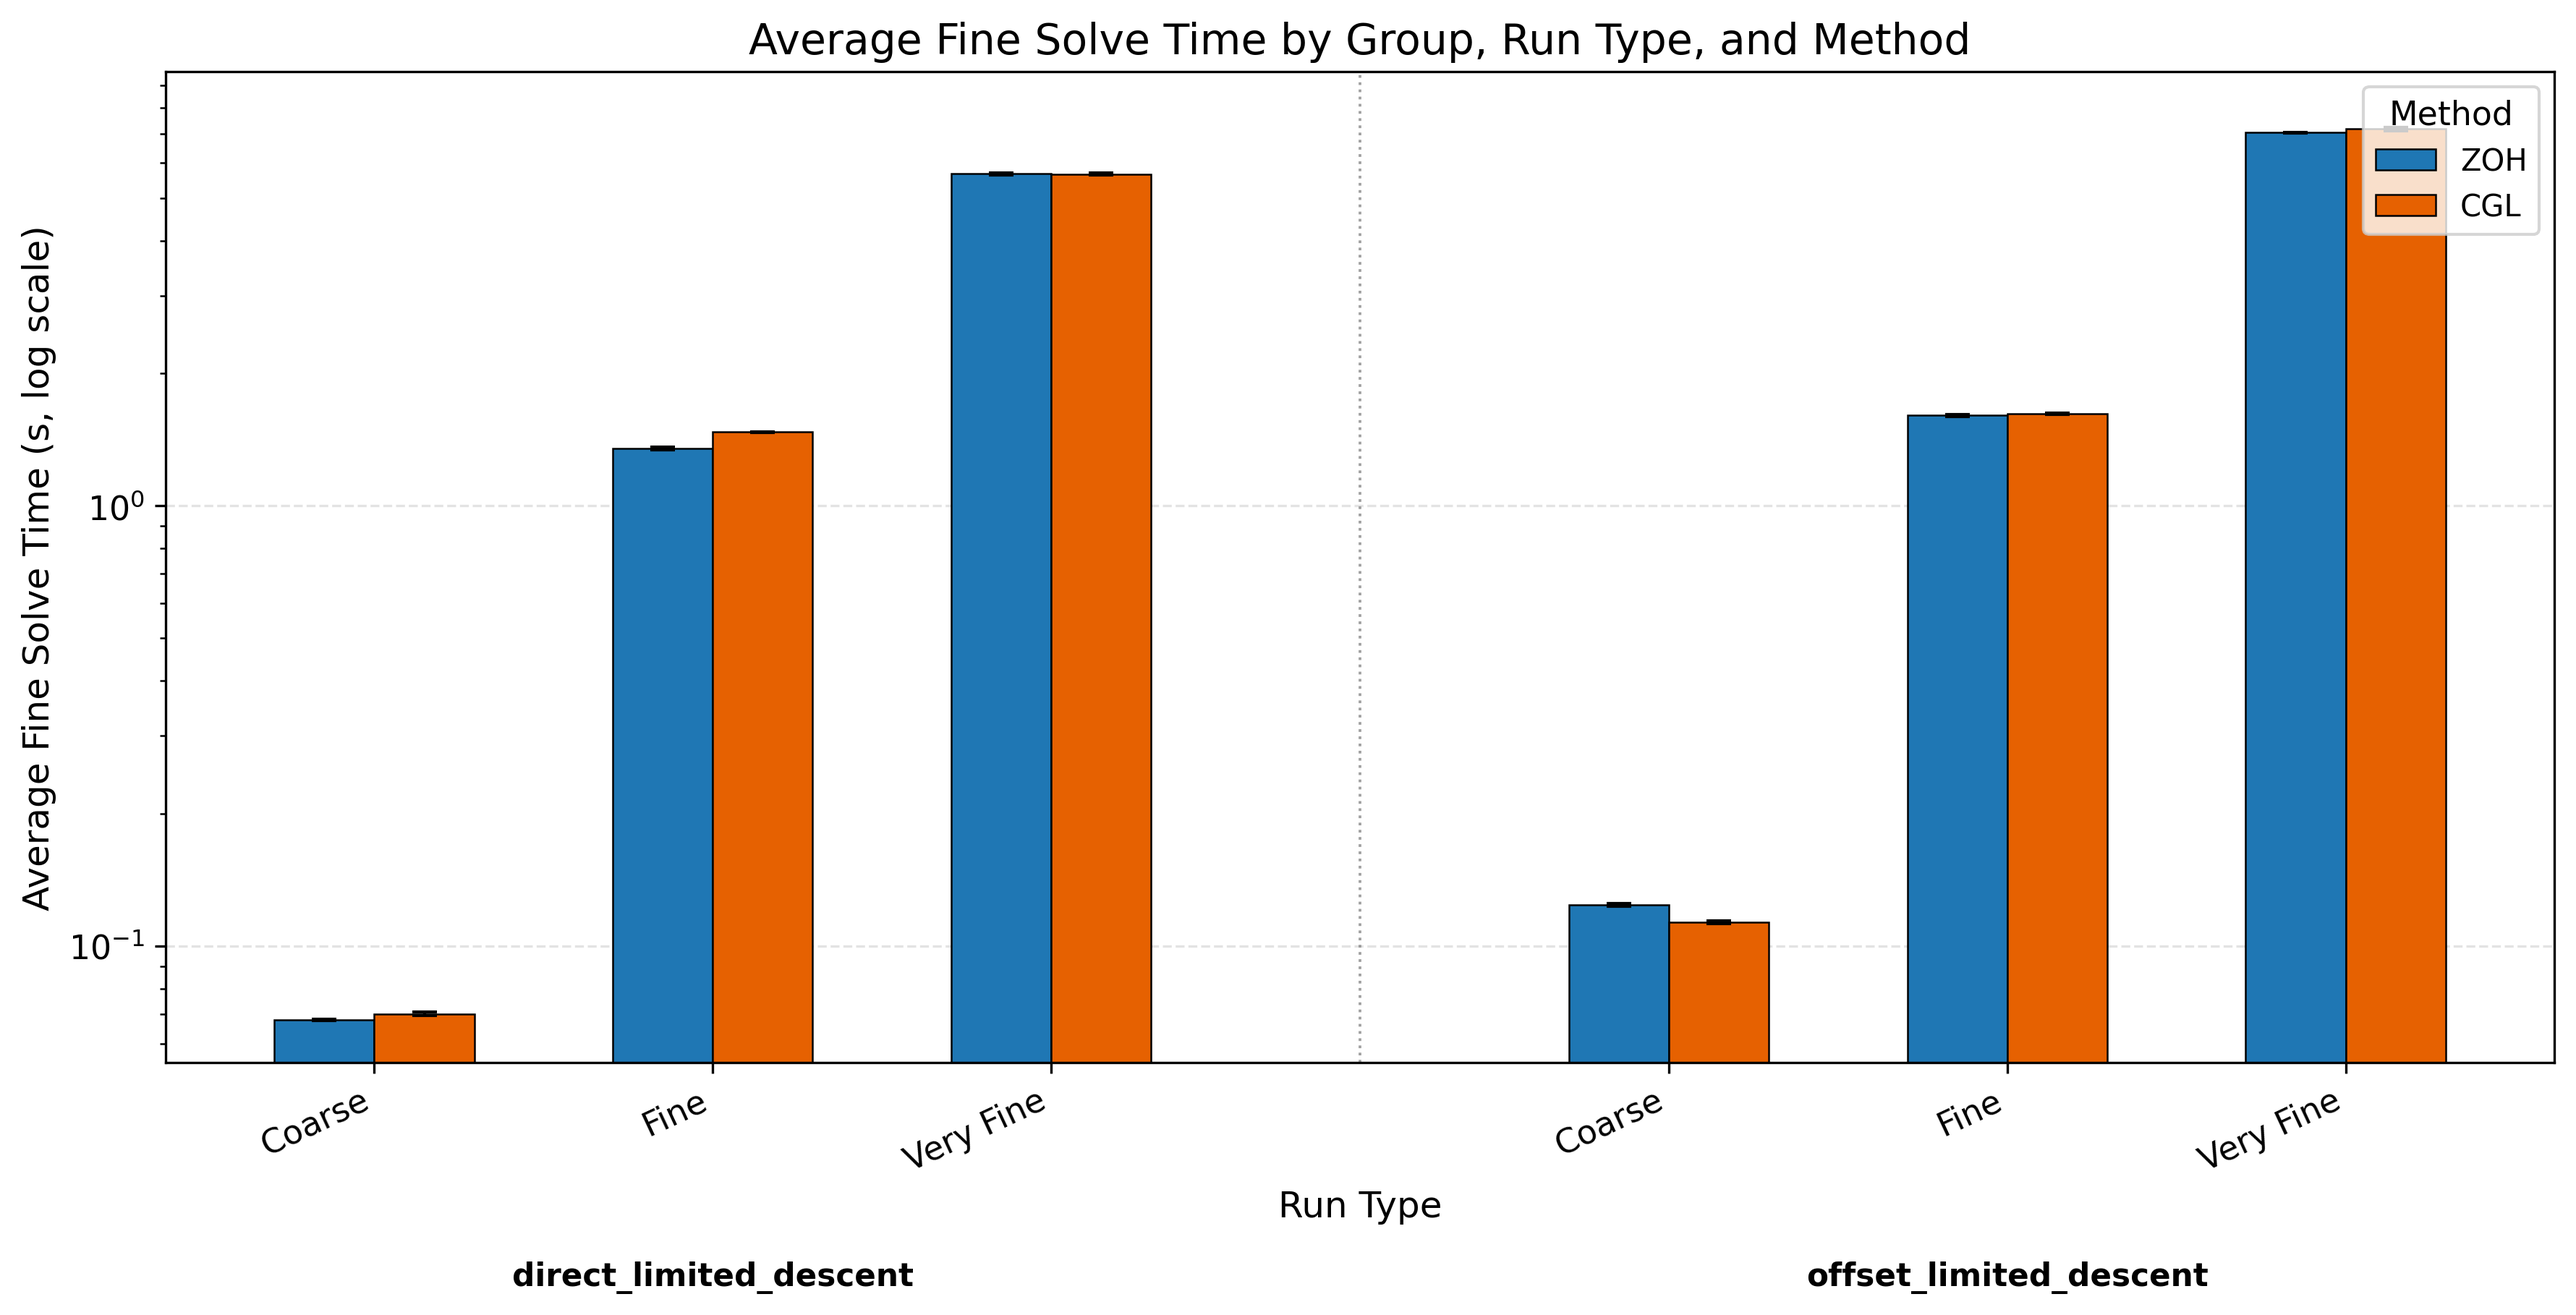
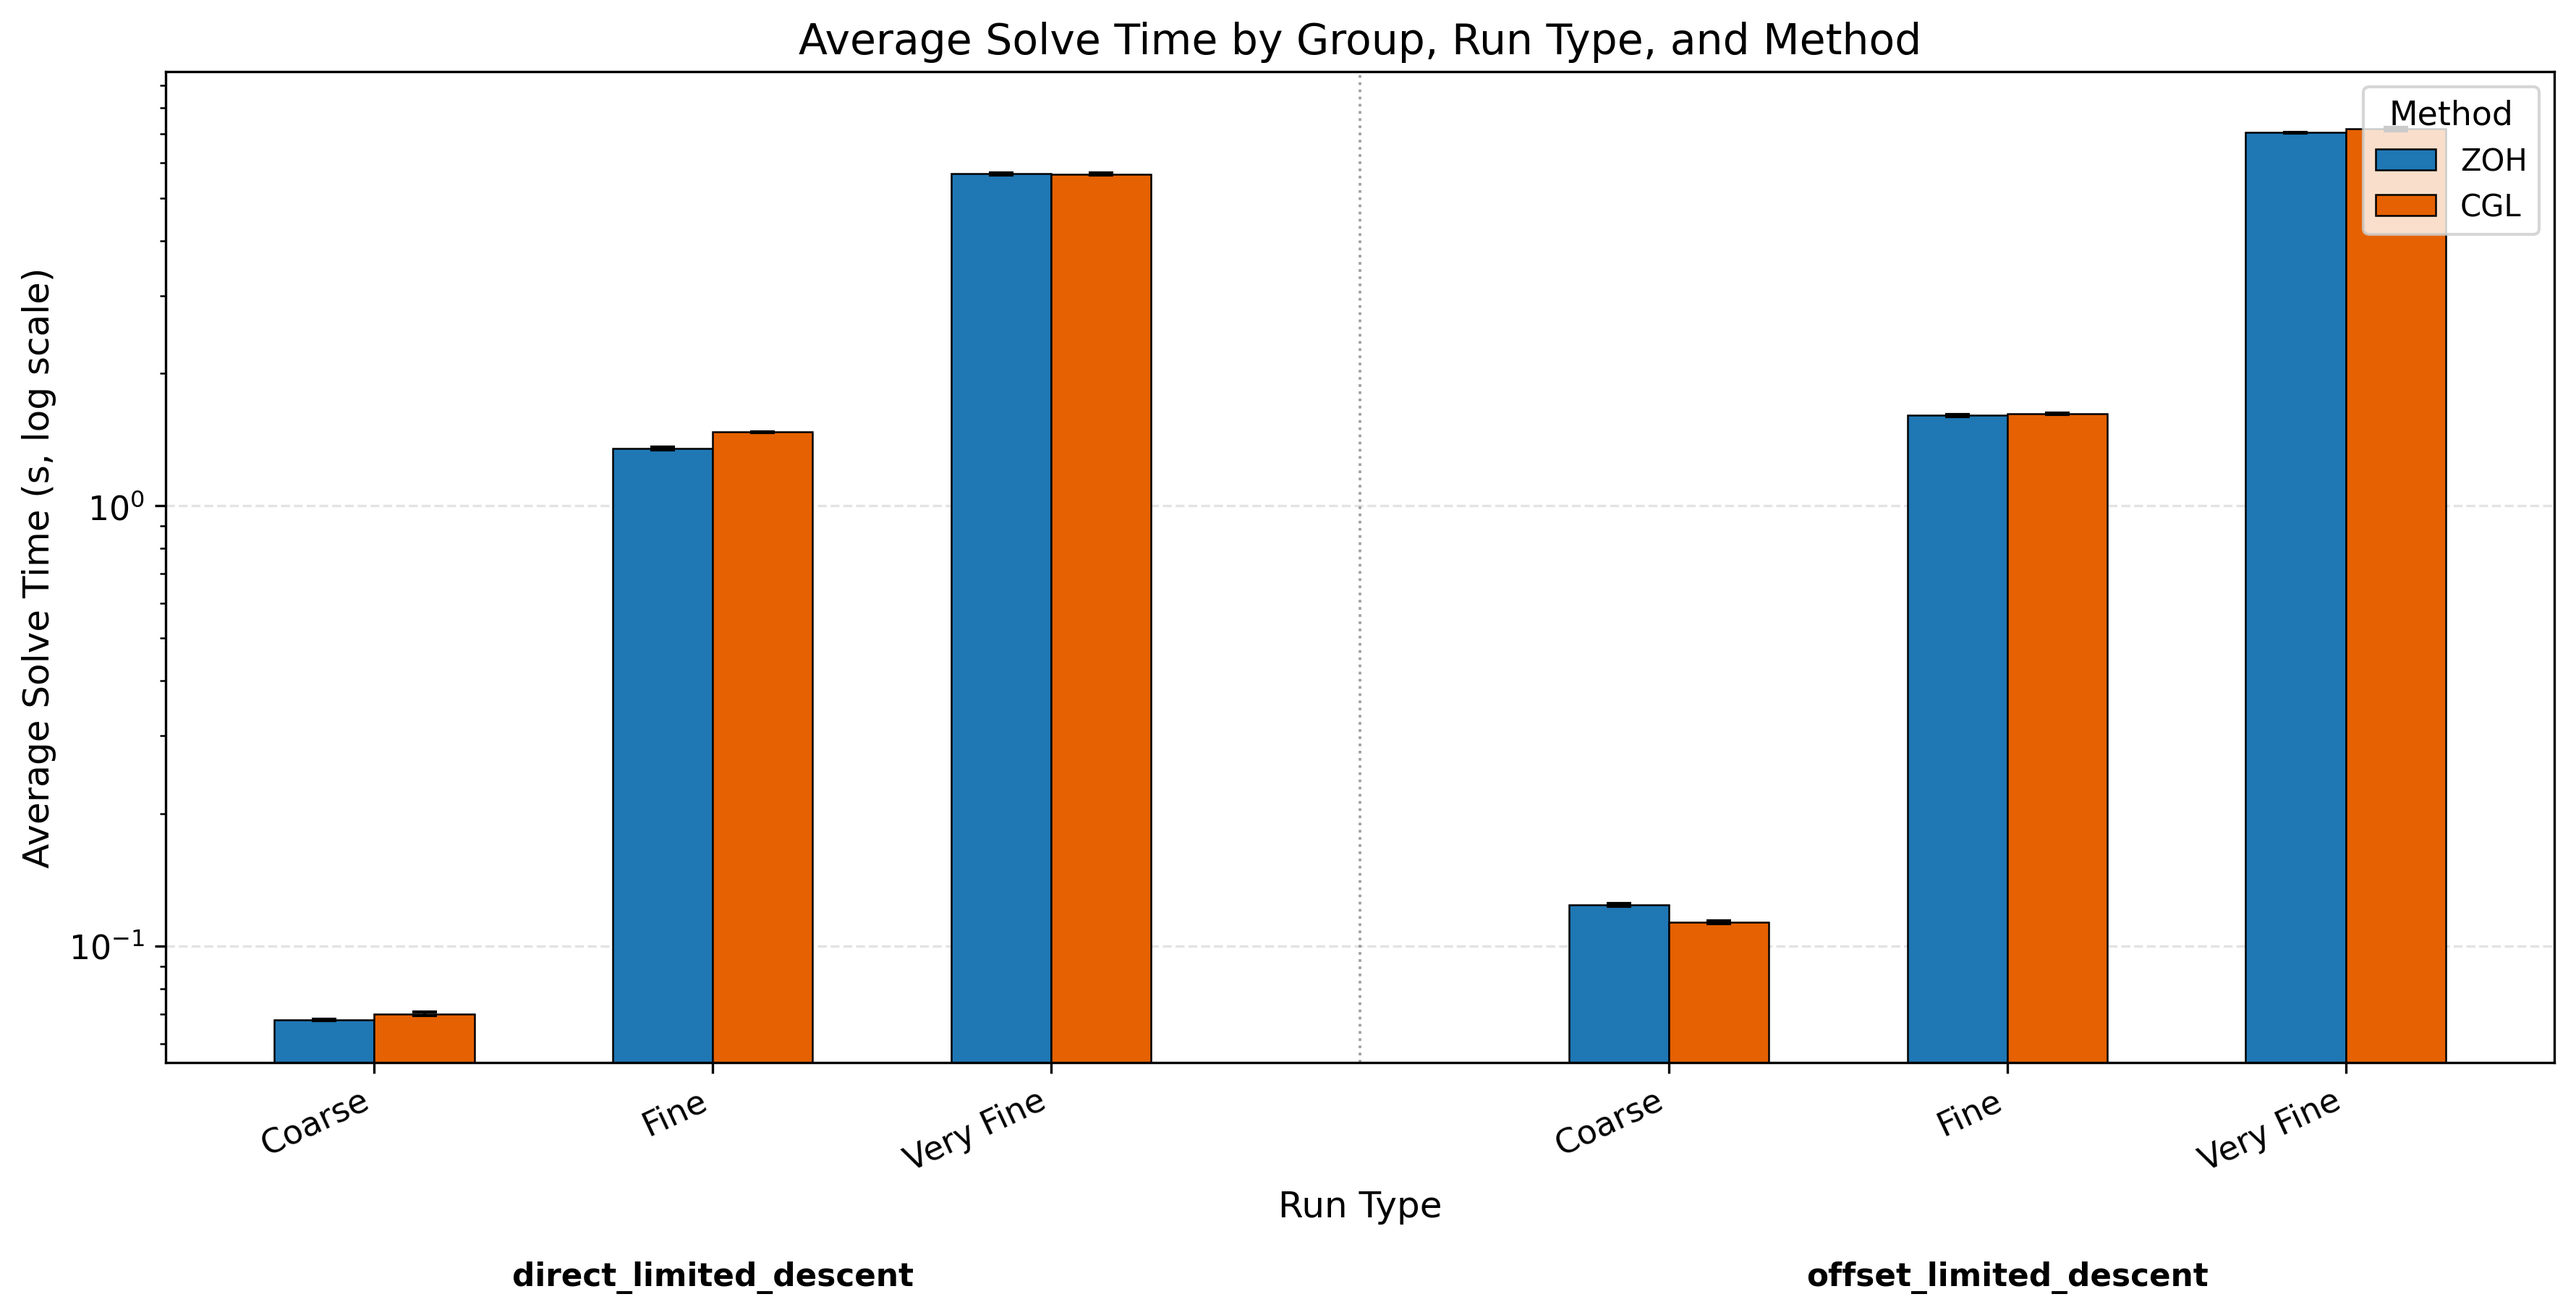
ultra_short direct_descent

Changed region(s): [[0.3117, 0.0, 0.7481, 0.0616], [0.0, 0.1848, 0.0312, 0.6777]]

diff --git a/Algorithms/LosslessConvexification/rust_lossless/src/main.rs b/Algorithms/LosslessConvexification/rust_lossless/src/main.rs
@@ -27,13 +27,13 @@ struct SimpleMetricsContext {
 }
 
 fn main() {
-    //  let initial_position = [0.0, 0.0, 50.0];
-    let initial_position = [10.0, 20.0, 50.0];
+     let initial_position = [0.0, 0.0, 50.0];
+    // let initial_position = [10.0, 20.0, 50.0];
 
-    // let max_velocity = 500.0;
-    let max_velocity = 5.0;
+    let max_velocity = 500.0;
+    // let max_velocity = 5.0;
 
-    let min_time_s: f64 = 11.95;
+    let min_time_s: f64 = 7.00;
 
     let mut zoh_solver = LosslessSolver {
         landing_point: [0.0, 0.0, 0.0],
@@ -50,7 +50,7 @@ fn main() {
         coarse_line_search_delta_t: 0.1,
         fine_line_search_delta_t: 0.01,
         coarse_delta_t: 0.05,
-        fine_delta_t: 0.4,
+        fine_delta_t: 0.2,
         use_glide_slope: true,
         glide_slope: 5_f64.to_radians(),
         N: 20,
@@ -72,14 +72,14 @@ fn main() {
         coarse_line_search_delta_t: 0.1,
         fine_line_search_delta_t: 0.01,
         coarse_nodes: 15,
-        fine_nodes: 63,
+        fine_nodes: 10,
         use_glide_slope: true,
         glide_slope: 5_f64.to_radians(),
         ..Default::default()
     };
 
-    let group_name = "offset_limited_descent";
-    let truth_name = "trajectory_zoh_truth_5_vel_limit_offset.csv";
+    let group_name = "direct_descent";
+    let truth_name = "trajectory_zoh_truth.csv";
     let run_type = "ultra_short";
     // let solver_groups_to_run: Vec<&str> = vec!["zoh", "cgl"];
     // let solver_groups_to_run: Vec<&str> = vec!["cgl"];
